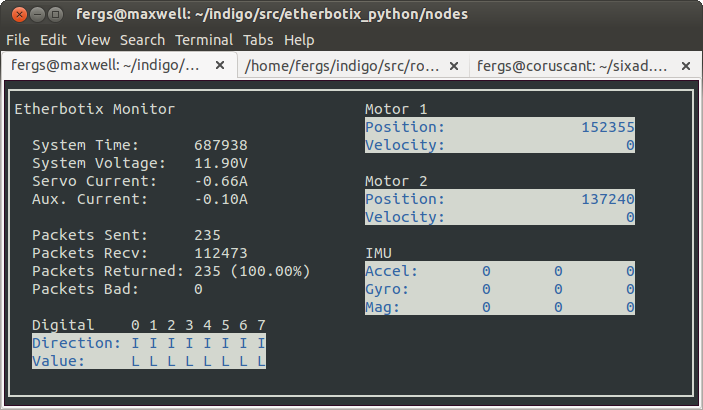
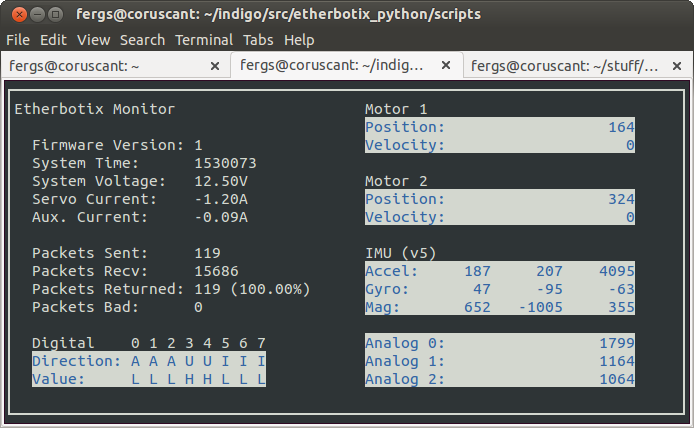
update monitor info in readme

diff --git a/scripts/monitor_etherbotix.py b/scripts/monitor_etherbotix.py
@@ -93,8 +93,8 @@ if __name__ == "__main__":
                 screen.addstr(12, 3, "Packets Bad:      %d" % e.packets_bad)
 
                 # Digital IO Status
-                digital_dir = " ".join(["S" if e.user_io_use & (1<<n) else "A" if e.digital_dir & (1<<n) == 0 else "O" for n in range(3)]) + " "
-                digital_dir += " ".join(["S" if e.user_io_use & (1<<(3+n)) else "I" if e.digital_dir & (1<<(3+n)) == 0 else "O" for n in range(5)])
+                digital_dir = " ".join(["U" if e.user_io_use & (1<<n) else "A" if e.digital_dir & (1<<n) == 0 else "O" for n in range(3)]) + " "
+                digital_dir += " ".join(["U" if e.user_io_use & (1<<(3+n)) else "I" if e.digital_dir & (1<<(3+n)) == 0 else "O" for n in range(5)])
                 digital_in = " ".join(["L" if e.digital_in & (1<<n) == 0 else "H" for n in range(8)])
                 screen.addstr(14, 3, "Digital    0 1 2 3 4 5 6 7")
                 screen.addstr(15, 3, "Direction: %s" % digital_dir, curses.color_pair(WHITE_OK))

diff --git a/README.md b/README.md
@@ -23,3 +23,9 @@ In addition to the ROS tools, the low level monitor_etherbotix.py is
 available.
 
 ![Monitor](https://raw.githubusercontent.com/mikeferguson/etherbotix_python/master/docs/monitor.png)
+
+The digital IO section uses the following notation:
+ * A = analog input
+ * I/O = digital input or output respectively
+ * U = pin is in use by user io (SPI, USART, etc)
+ * H/L = digital status of pin, high or low.
